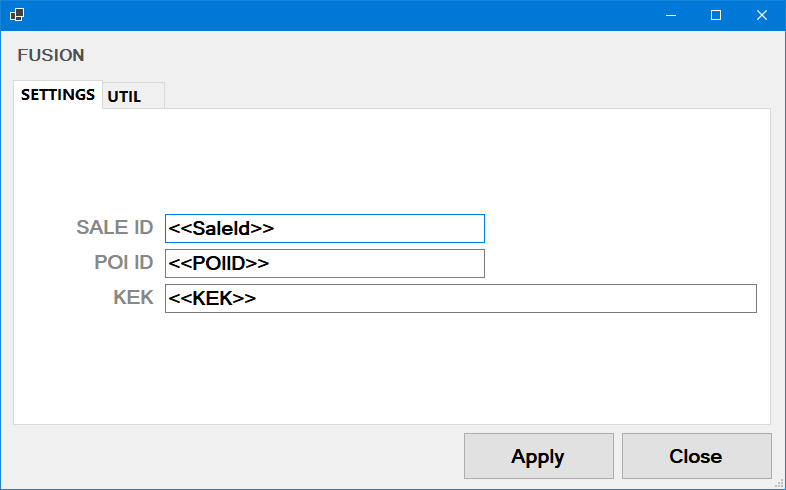
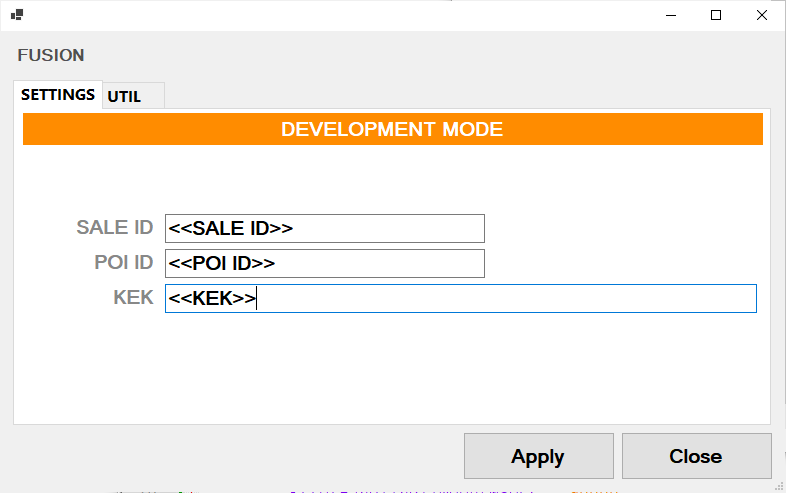
Updated install instructions for Fusion App

diff --git a/docs/api-reference/fusion-app.md b/docs/api-reference/fusion-app.md
@@ -14,24 +14,34 @@ In case of an error (timeout, system crash etc), the Sale System sends a HTTP GE
 
 ## Getting started with Fusion App
 
-### Install Fusion App 
+### Install Fusion App
 
 - Contact the DataMesh Integrations team (integrations@datameshgroup.com) and request the latest Fusion App installer
-- Run the install and follow the install prompts
+- Run the installer and select the _Development_ install type
+
+  ![](/img/fusion-app-install-1.png)
+
+- Wait for the installation to complete and click _Finish_
+
+  ![](/img/fusion-app-install-2.png)
 
 ### Configure Fusion App
 
-Launch Fusion App from the icon in the system tray. 
+- Launch Fusion App from the icon in the system tray. 
 
-![](/img/fusion-app-icon.png)
+  ![](/img/fusion-app-icon.png)
 
-Configure Fusion App with the SaleID, POIID, and KEK provided by DataMesh and click _Apply_.
+- Configure Fusion App with the SaleID, POIID, and KEK provided by DataMesh and click _Apply_.
 
-![](/img/fusion-app-settings.png)
+  ![](/img/fusion-app-settings.png)
 
-Navigate to the _Util_ tab and click _Login_. This will initiate a login and validate the SaleID, POIID, and KEK.
+- Fusion App will complete a login to validate the SaleID, POIID, and KEK.
 
-![](/img/fusion-app-login.png)
+  ![](/img/fusion-app-login.png)
+
+- The _Util_ tab will allow you to access log files and perform a login. DataMesh may ask for log files to diagnose issues during development. 
+
+  ![](/img/fusion-app-util.png)
 
 ### Send your first payment request
 
